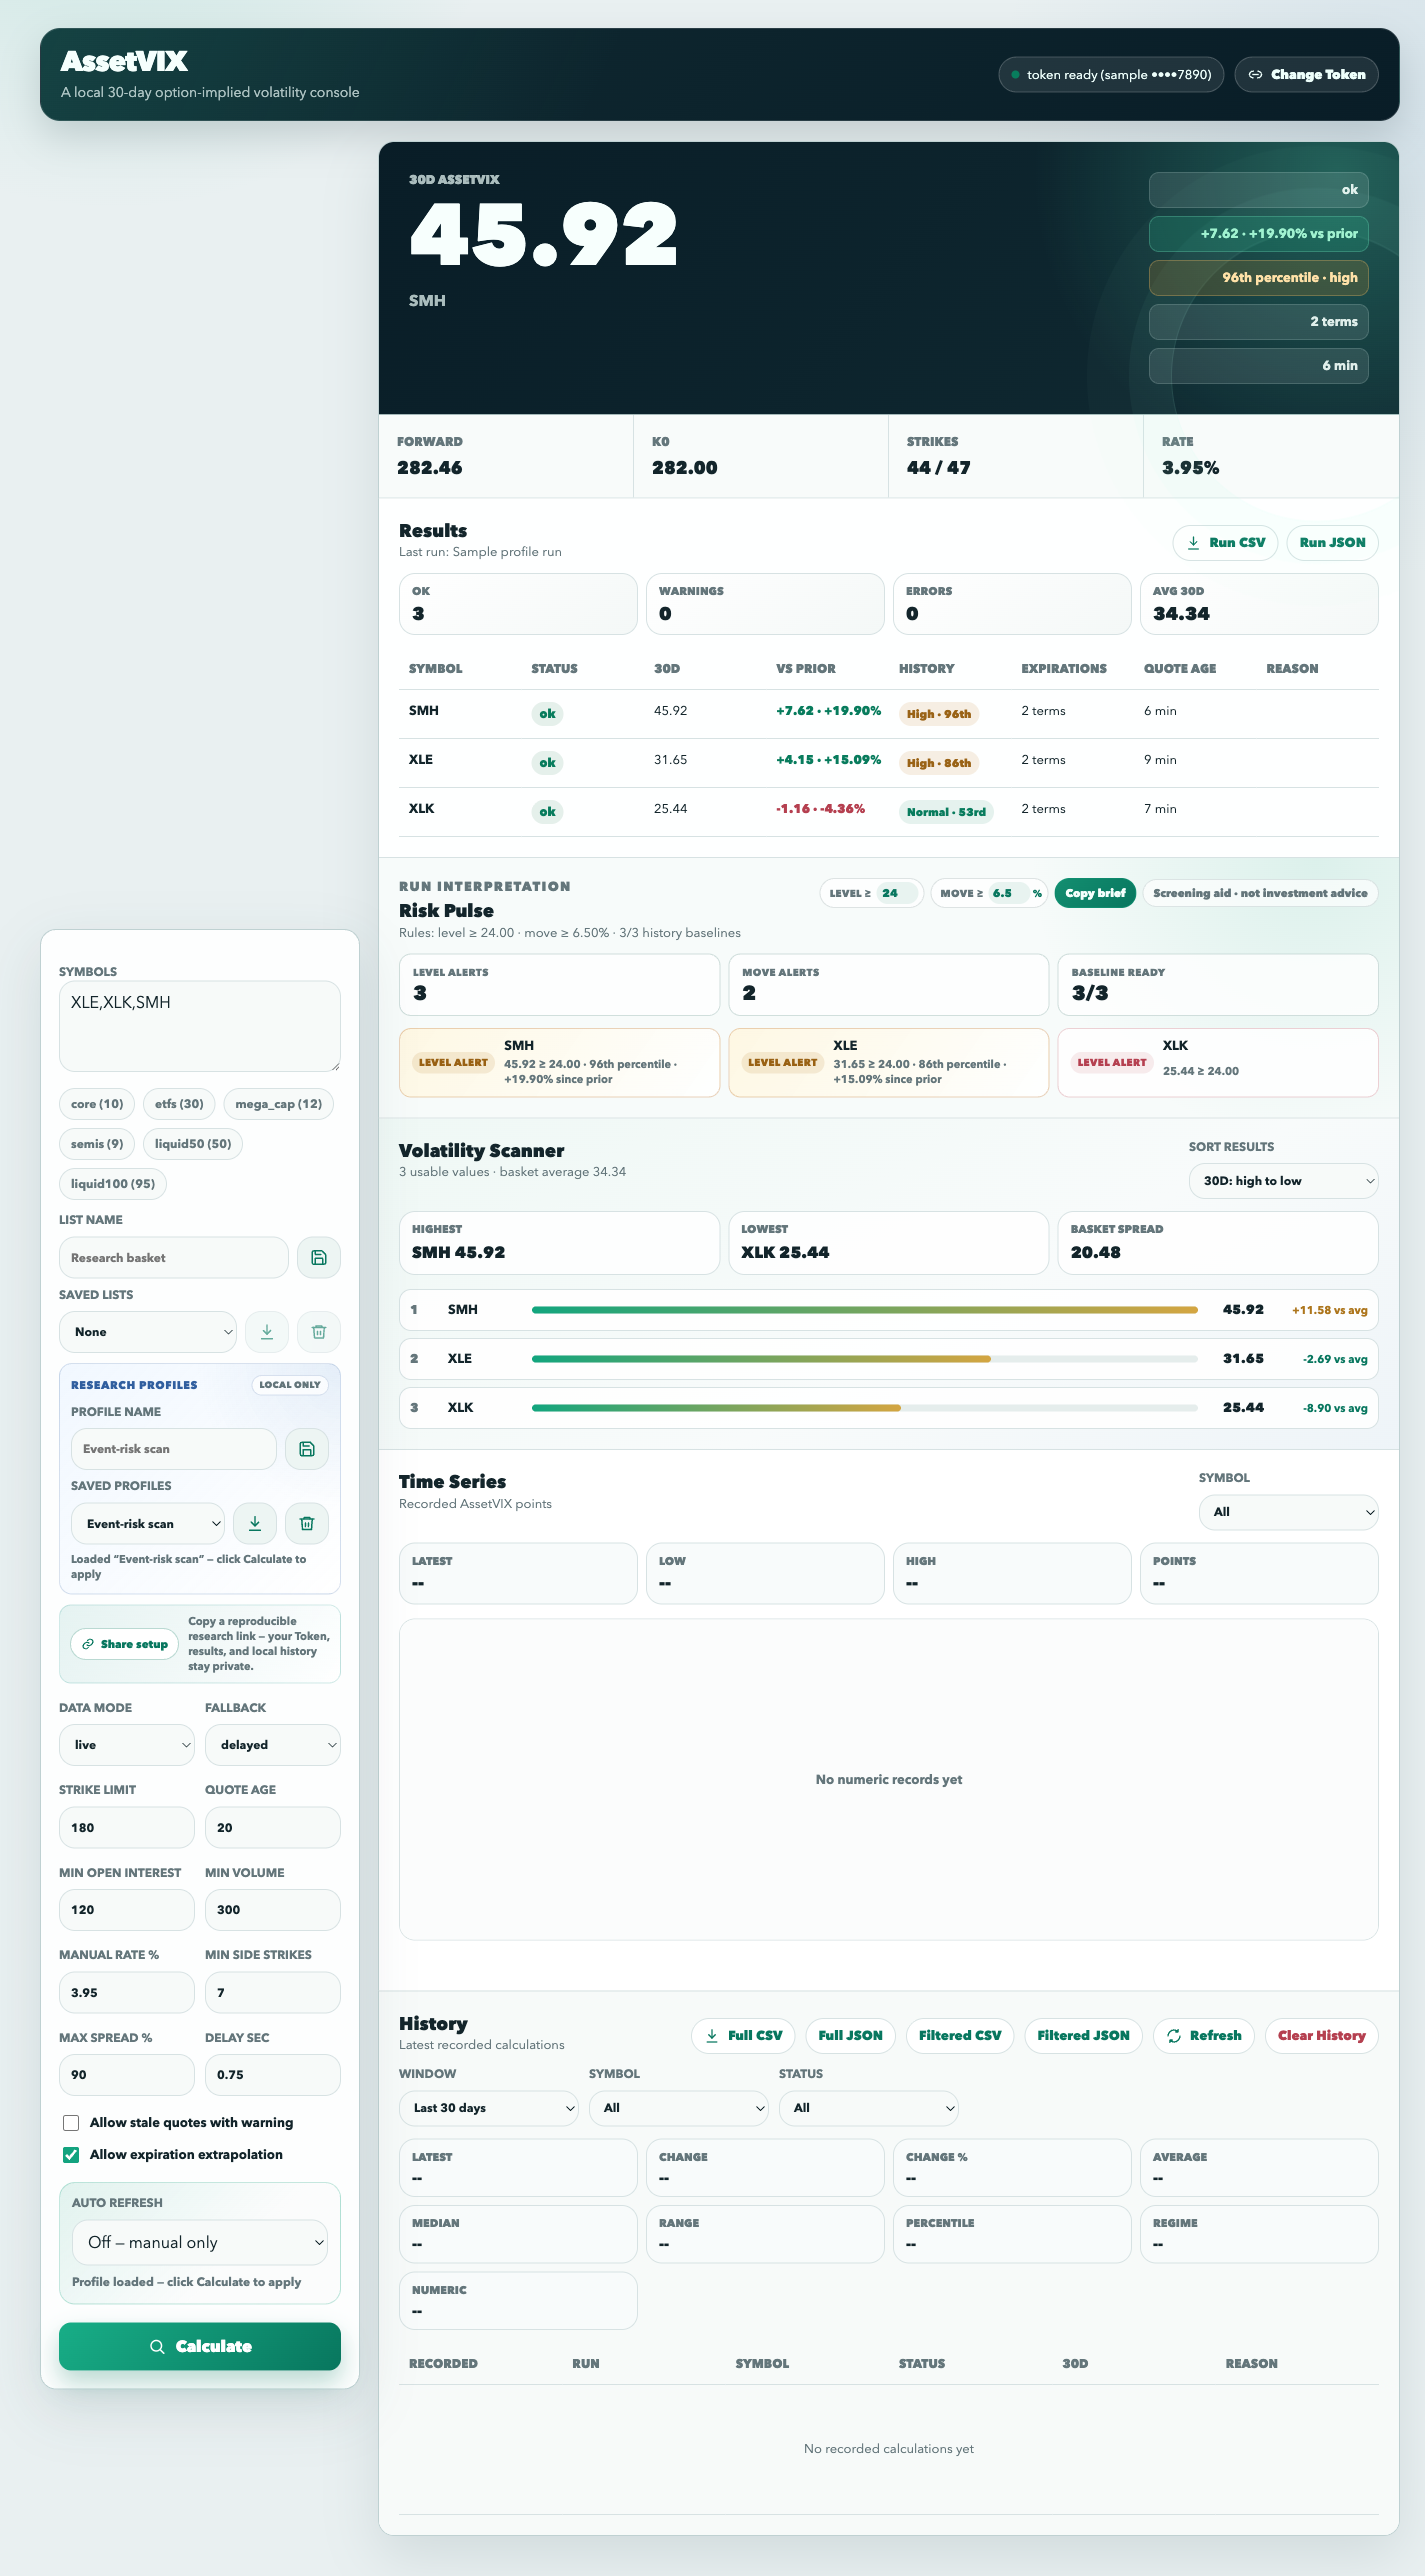
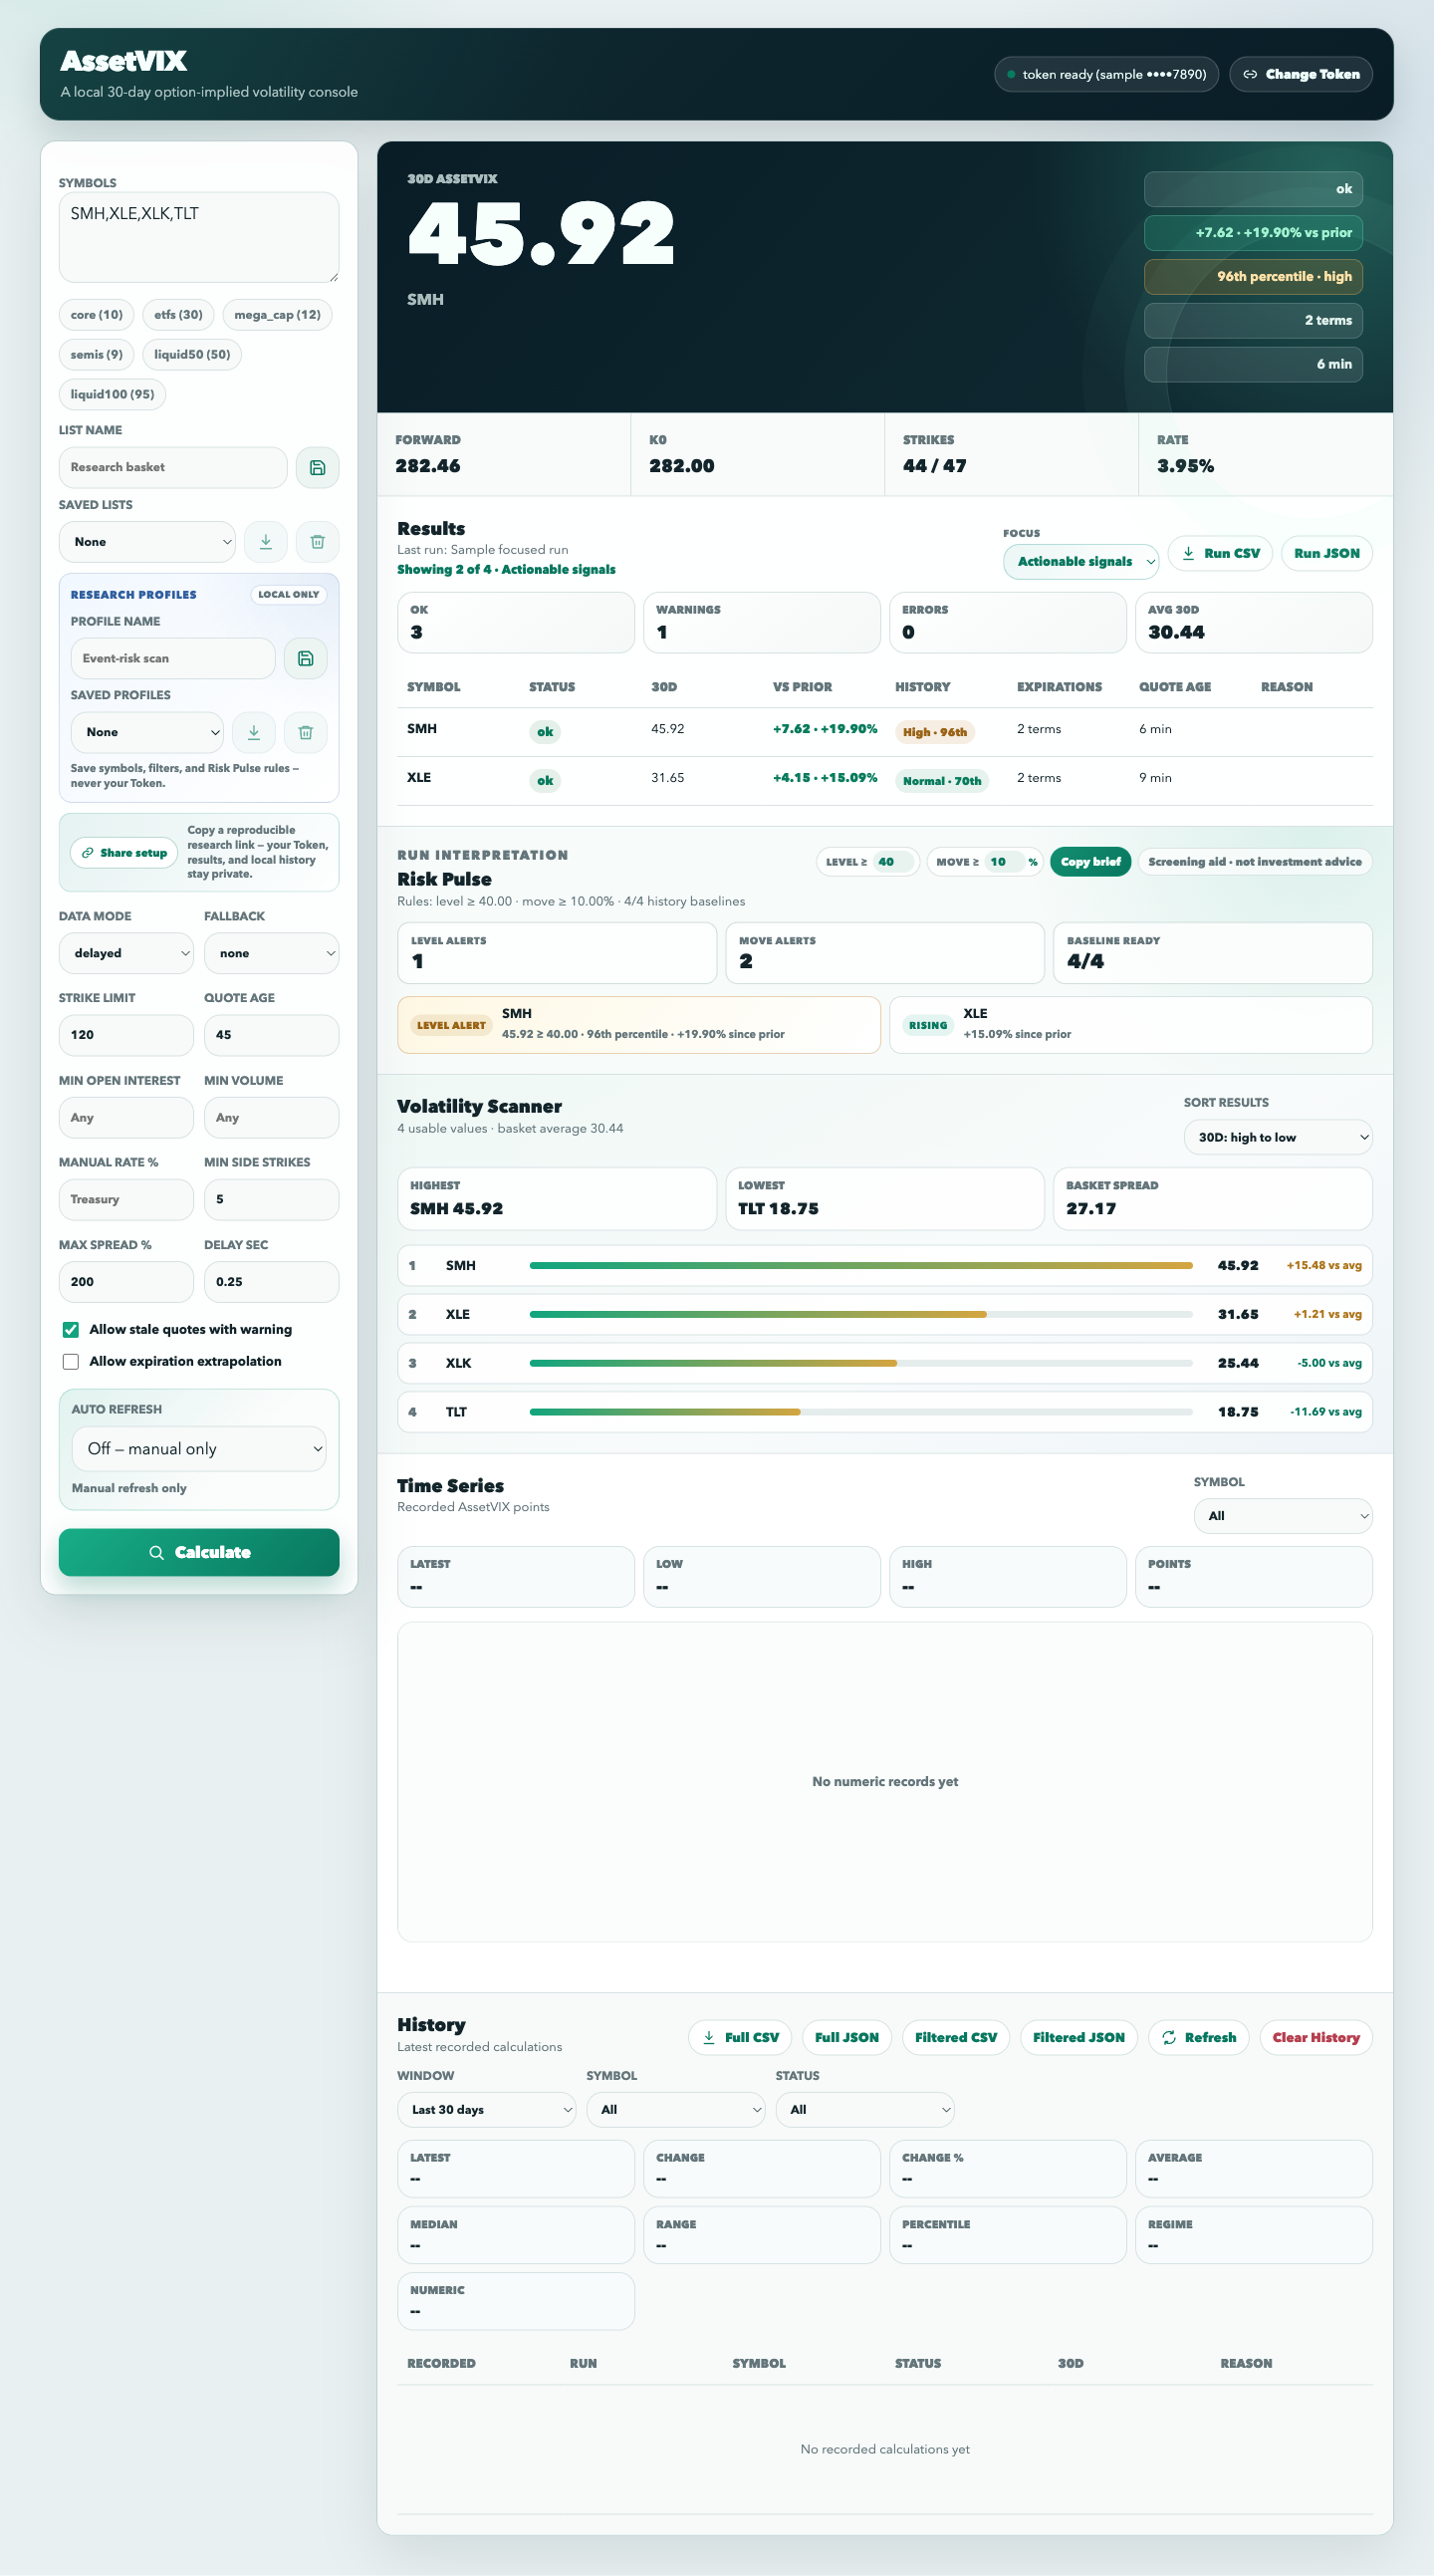
Add results focus controls

diff --git a/web/app.js b/web/app.js
@@ -38,6 +38,8 @@ const queryButton = document.querySelector("#queryButton");
 const queryButtonLabel = document.querySelector("#queryButtonLabel");
 const resultsBody = document.querySelector("#resultsBody");
 const lastRun = document.querySelector("#lastRun");
+const resultFocusNote = document.querySelector("#resultFocusNote");
+const resultFocusSelect = document.querySelector("#resultFocusSelect");
 const resultSortSelect = document.querySelector("#resultSortSelect");
 const scannerNote = document.querySelector("#scannerNote");
 const scannerHigh = document.querySelector("#scannerHigh");
@@ -177,6 +179,7 @@ const rememberedControls = [
   allowStaleInput,
   allowExtrapolationInput,
   autoRefreshSelect,
+  resultFocusSelect,
   resultSortSelect,
   pulseLevelInput,
   pulseMoveInput,
@@ -568,6 +571,48 @@ function updateResultSummary(rows) {
   summaryWarn.textContent = String(counts.warn);
   summaryError.textContent = String(counts.error);
   summaryAverage.textContent = average === null ? "--" : formatValue(average);
+}
+
+function focusLabel() {
+  const labels = {
+    all: "All readings",
+    signals: "Actionable signals",
+    attention: "Warnings & errors",
+    baseline: "Baseline building",
+  };
+  return labels[resultFocusSelect.value] || labels.all;
+}
+
+function isRiskSignal(row, thresholds = pulseThresholds()) {
+  const value = rowAssetVix(row);
+  if (value === null) return false;
+  const baseline = historyBaseline(row);
+  const changePercent = optionalNumber(row.change_from_previous_pct);
+  return (
+    value >= thresholds.level ||
+    baseline.regime === "high" ||
+    (changePercent !== null && Math.abs(changePercent) >= thresholds.move)
+  );
+}
+
+function focusedResultRows(rows) {
+  const focus = resultFocusSelect.value;
+  if (focus === "signals") return rows.filter((row) => isRiskSignal(row));
+  if (focus === "attention") return rows.filter((row) => badgeClass(row.status) !== "ok");
+  if (focus === "baseline") return rows.filter((row) => !historyBaseline(row).ready);
+  return rows;
+}
+
+function updateResultFocusNote(visibleRows, allRows) {
+  if (!allRows.length) {
+    resultFocusNote.textContent = "Run a calculation to focus the table";
+    return;
+  }
+  const label = focusLabel();
+  resultFocusNote.textContent =
+    resultFocusSelect.value === "all"
+      ? `Showing all ${allRows.length} results`
+      : `Showing ${visibleRows.length} of ${allRows.length} · ${label}`;
 }
 
 function csvExportValue(value) {
@@ -1122,13 +1167,19 @@ function renderRows(rows, { markRun = true } = {}) {
   renderRiskPulse(rows);
   renderScanner(rows);
   resultsBody.innerHTML = "";
+  const visibleRows = focusedResultRows(rows);
+  updateResultFocusNote(visibleRows, rows);
   if (!rows.length) {
     resultsBody.innerHTML = '<tr><td colspan="8" class="empty">No results</td></tr>';
     updateMain(null);
     return;
   }
 
-  for (const row of sortedResultRows(rows)) {
+  if (!visibleRows.length) {
+    resultsBody.innerHTML = `<tr><td colspan="8" class="empty">No ${escapeHtml(focusLabel().toLowerCase())} in this run</td></tr>`;
+  }
+
+  for (const row of sortedResultRows(visibleRows)) {
     const tr = document.createElement("tr");
     const quoteAge =
       row.max_quote_age_minutes === null || row.max_quote_age_minutes === undefined
@@ -1656,10 +1707,11 @@ autoRefreshSelect.addEventListener("change", () => {
   scheduleAutoRefresh();
 });
 resultSortSelect.addEventListener("change", () => renderRows(latestRows, { markRun: false }));
+resultFocusSelect.addEventListener("change", () => renderRows(latestRows, { markRun: false }));
 for (const control of [pulseLevelInput, pulseMoveInput]) {
   control.addEventListener("input", () => {
     saveSettings();
-    renderRiskPulse(latestRows);
+    renderRows(latestRows, { markRun: false });
   });
 }
 copyPulseButton.addEventListener("click", copyPulseBrief);

diff --git a/web/styles.css b/web/styles.css
@@ -619,6 +619,37 @@ textarea:focus {
   flex-wrap: wrap;
 }
 
+.result-focus-control {
+  display: grid;
+  gap: 4px;
+  min-width: 148px;
+  color: var(--muted);
+  font-size: 10px;
+  font-weight: 820;
+  letter-spacing: 0.045em;
+  text-transform: uppercase;
+}
+
+.result-focus-control select {
+  min-height: 36px;
+  padding: 7px 10px;
+  border-color: rgba(11, 143, 131, 0.28);
+  background: linear-gradient(135deg, rgba(11, 143, 131, 0.08), #ffffff);
+  color: var(--accent-dark);
+  font-size: 12px;
+  font-weight: 760;
+  letter-spacing: normal;
+  text-transform: none;
+}
+
+.table-head .result-focus-note {
+  min-height: 18px;
+  margin-top: 3px;
+  color: var(--accent-dark);
+  font-size: 12px;
+  font-weight: 720;
+}
+
 .result-summary {
   display: grid;
   grid-template-columns: repeat(4, 1fr);
@@ -1064,6 +1095,10 @@ tbody tr:hover {
 
   .token-actions {
     justify-content: flex-start;
+  }
+
+  .result-focus-control {
+    width: min(220px, 100%);
   }
 
   .workspace {

diff --git a/web/index.html b/web/index.html
@@ -291,8 +291,18 @@
               <div>
                 <h2>Results</h2>
                 <p id="lastRun">Not run yet</p>
+                <p id="resultFocusNote" class="result-focus-note" aria-live="polite">Showing all results</p>
               </div>
               <div class="result-actions">
+                <label class="result-focus-control">
+                  <span>Focus</span>
+                  <select id="resultFocusSelect">
+                    <option value="all">All readings</option>
+                    <option value="signals">Actionable signals</option>
+                    <option value="attention">Warnings &amp; errors</option>
+                    <option value="baseline">Baseline building</option>
+                  </select>
+                </label>
                 <button id="downloadRunCsvButton" class="secondary-button" type="button" disabled>
                   <svg viewBox="0 0 24 24" aria-hidden="true">
                     <path d="M12 3v12" />

diff --git a/test_server_token.py b/test_server_token.py
@@ -325,7 +325,7 @@ class ServerTokenTests(unittest.TestCase):
             )
 
             payload = json.loads(server.records_json_bytes(path))
-            self.assertEqual(payload["version"], "1.13.0")
+            self.assertEqual(payload["version"], "1.14.0")
             self.assertEqual(payload["count"], 1)
             self.assertEqual(payload["rows"][0]["symbol"], "SPY")
             self.assertIn("exported_at_utc", payload)
@@ -378,7 +378,7 @@ class ServerTokenTests(unittest.TestCase):
             self.assertEqual(rows[0]["reason"], "'=warn")
 
             payload = json.loads(server.history_json_bytes(path, limit=10, symbol="SPY", status="warn"))
-            self.assertEqual(payload["version"], "1.13.0")
+            self.assertEqual(payload["version"], "1.14.0")
             self.assertEqual(payload["count"], 1)
             self.assertEqual(payload["matchedCount"], 1)
             self.assertEqual(payload["totalCount"], 3)
@@ -613,7 +613,7 @@ class ServerTokenTests(unittest.TestCase):
         self.assertIn("Permissions-Policy:", headers)
         self.assertIn("Referrer-Policy: no-referrer", headers)
         self.assertIn("X-Content-Type-Options: nosniff", headers)
-        self.assertEqual(handler.version_string(), "AssetVIXLocal/1.13.0")
+        self.assertEqual(handler.version_string(), "AssetVIXLocal/1.14.0")
 
 
 if __name__ == "__main__":

diff --git a/asset_vix.py b/asset_vix.py
@@ -34,7 +34,7 @@ except ImportError:  # pragma: no cover - Python 3.8 fallback is not expected he
 
 
 MARKETDATA_BASE = "https://api.marketdata.app/v1"
-VERSION = "1.13.0"
+VERSION = "1.14.0"
 TREASURY_XML = (
     "https://home.treasury.gov/resource-center/data-chart-center/"
     "interest-rates/pages/xml"

diff --git a/CHANGELOG.md b/CHANGELOG.md
@@ -7,6 +7,16 @@ All notable project changes are summarized here.
 - Reworked the GitHub README homepage so the formula section uses stable
   plain-text notation instead of Markdown math blocks.
 
+## 1.14.0 - 2026-07-18
+
+- Added a browser-saved Results Focus control for isolating actionable Risk
+  Pulse signals, data warnings/errors, or symbols whose historical baseline is
+  still building—without an additional market-data request.
+- Kept the complete run summary, Scanner, and exports visible while focusing
+  the detailed table, so triage never loses the broader basket context.
+- Refined the Results toolbar with a compact focus selector and refreshed the
+  GitHub preview to show the prioritization workflow.
+
 ## 1.13.0 - 2026-07-16
 
 - Added browser-saved Research Profiles for returning to a complete scan setup:

diff --git a/README.md b/README.md
@@ -34,10 +34,10 @@ monitoring, and prototyping rather than for publishing an official index.
 The preview uses sample values to show the local workflow: choose or save a
 symbol list, save or load a non-sensitive research profile, set quote-quality
 controls, share the setup, calculate VIX-style 30-day implied volatility,
-review the run summary, export the current run, review per-symbol diagnostics,
-inspect filtered history analytics, and export filtered recorded history. Actual
-calculations require your own MarketData.app token and live, delayed, or cached
-option-chain access.
+review the run summary, focus the detailed table on the signals that matter,
+export the current run, review per-symbol diagnostics, inspect filtered history
+analytics, and export filtered recorded history. Actual calculations require
+your own MarketData.app token and live, delayed, or cached option-chain access.
 
 Quick start:
 
@@ -95,6 +95,8 @@ python3 asset_vix.py --symbols SPY,QQQ --mode delayed --json --fail-on-non-ok
   included
 - Browser-saved research profiles for restoring a complete non-sensitive scan
   setup, with a deliberate Calculate step before any market-data request
+- Results Focus controls that isolate actionable volatility signals, warnings,
+  or incomplete history baselines without running another market-data query
 - Current-run CSV and JSON exports from the results table
 - Filtered history CSV and JSON exports from the selected history view
 - Current-run summary for OK, warning, error, and average 30-day values